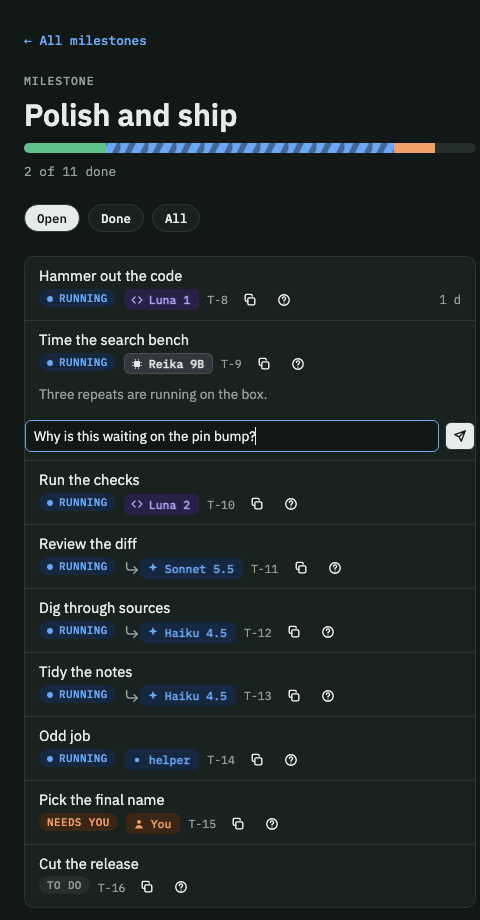
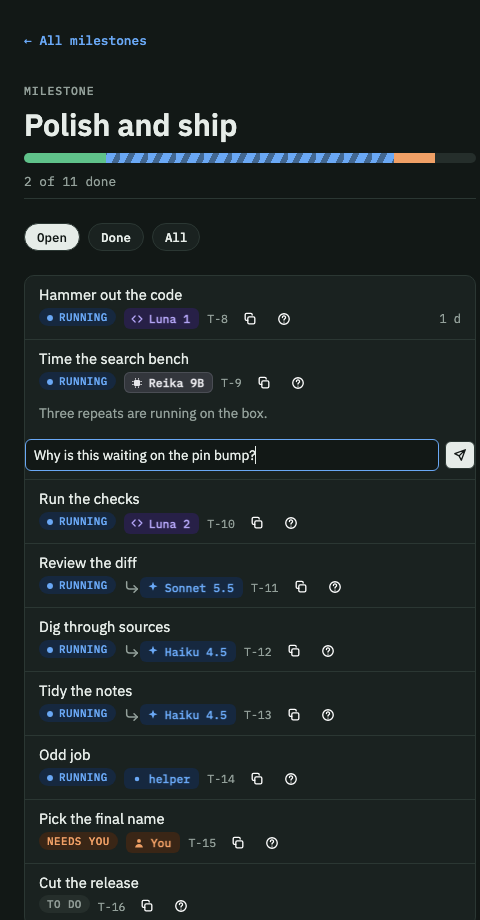
Screenshots: asleep and done plan pages, fixed seed; refresh page and overview pictures

diff --git a/tools/pageshot.ts b/tools/pageshot.ts
@@ -1,5 +1,5 @@
 // Screenshots of the plan page (headless Chrome only):  bun tools/pageshot.ts
-// Builds the page from tools/sample/plan.json, then writes docs/img/page-{home,steps}-{dark,light}.png.
+// Builds the page from tools/sample/plan.json, then writes docs/img/page-{home,steps,asleep,done}-{dark,light}.png.
 // "steps" opens the first milestone, expands a step and shows its question box with text typed in.
 import { mkdirSync, mkdtempSync, readFileSync, rmSync, writeFileSync } from 'node:fs'
 import { tmpdir } from 'node:os'
@@ -9,15 +9,20 @@ const ROOT = resolve(import.meta.dir, '..')
 const CHROME = '/Applications/Google Chrome.app/Contents/MacOS/Google Chrome'
 const dir = mkdtempSync(join(tmpdir(), 'pageshot-'))
 const built = join(dir, 'page.html')
-const b = Bun.spawnSync(['python3', join(ROOT, 'tools/plan-page-build'), join(ROOT, 'tools/sample/plan.json'), built])
-if (b.exitCode !== 0) throw new Error('plan-page-build failed: ' + b.stderr.toString())
-const page = readFileSync(built, 'utf8')
+// The characters pick animations at random; a fixed seed (window.CHR_SEED, read at load) keeps every picture the same.
+const SEED = '<script>window.CHR_SEED=7</script>'
+const build = (plan: string): string => {
+  const b = Bun.spawnSync(['python3', join(ROOT, 'tools/plan-page-build'), join(ROOT, 'tools/sample', plan), built])
+  if (b.exitCode !== 0) throw new Error('plan-page-build failed: ' + b.stderr.toString())
+  return SEED + readFileSync(built, 'utf8')
+}
+const page = build('plan.json')
 const steps = `<script>setTimeout(()=>{const m=document.querySelector('.mcard');if(m)m.click();setTimeout(()=>{const d=[...document.querySelectorAll('details')].filter(x=>x.querySelector('[data-ask]'))[1];if(d){d.open=true;d.querySelector('[data-ask]').click();d.querySelector('.act input').value='Why is this waiting on the pin bump?'}},400)},500)</script>`
-const scenes = [{ name: 'home', extra: '', h: 800 }, { name: 'steps', extra: steps, h: 920 }]
+const scenes = [{ name: 'home', extra: '', h: 800, page }, { name: 'steps', extra: steps, h: 920, page }, { name: 'asleep', extra: '', h: 800, page: build('plan-quiet.json') }, { name: 'done', extra: '', h: 800, page: build('plan-done.json') }]
 mkdirSync(join(ROOT, 'docs/img'), { recursive: true })
 for (const s of scenes) {
   const f = join(dir, s.name + '.html')
-  writeFileSync(f, page + s.extra)
+  writeFileSync(f, s.page + s.extra)
   for (const [theme, scheme] of [['dark', 0], ['light', 1]] as const) {
     const out = join(ROOT, 'docs/img', `page-${s.name}-${theme}.png`)
     const p = Bun.spawnSync([CHROME, '--headless=new', '--disable-gpu', '--hide-scrollbars', `--blink-settings=preferredColorScheme=${scheme}`, '--force-device-scale-factor=1', `--window-size=480,${s.h}`, '--virtual-time-budget=5000', `--screenshot=${out}`, 'file://' + f], { stdout: 'ignore', stderr: 'ignore' })
